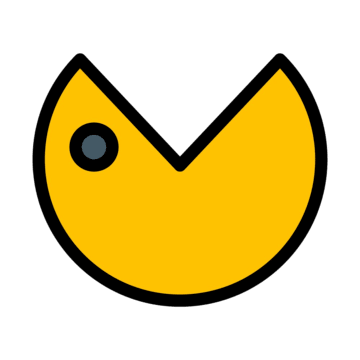
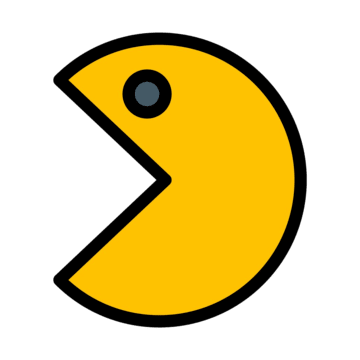
added move feature for Pac Man

diff --git a/src/App.jsx b/src/App.jsx
@@ -11,7 +11,6 @@ function App() {
 
   const [boardSize, setBoardSize] = useState([15, 17]);
   const [level, setLevel] = useState(1);
-
   const tileSize = 32;
 
   const boardStyle = {
@@ -56,7 +55,7 @@ function App() {
             tileSize,
             tileSize
           );
-        } else {
+        } else if (char === ".") {
           foods.add(new Block(null, x, y, tileSize, tileSize));
         }
       }
@@ -102,7 +101,63 @@ function App() {
     });
   }
 
+  function movePacMan(e, pacMan, imagesRef) {
+    if (e.code === "KeyW" || e.code === "ArrowUp") {
+      pacMan.updateDirection("U", imagesRef.pacManUp);
+    } else if (e.code === "KeyS" || e.code === "ArrowDown") {
+      pacMan.updateDirection("D", imagesRef.pacManDown);
+    } else if (e.code === "KeyA" || e.code === "ArrowLeft") {
+      pacMan.updateDirection("L", imagesRef.pacManLeft);
+    } else if (e.code === "KeyD" || e.code === "ArrowRight") {
+      pacMan.updateDirection("R", imagesRef.pacManRight);
+    }
+  }
+
+  function checkCollision(a, b) {
+    return (
+      a.x < b.x + b.width &&
+      a.x + a.width > b.x &&
+      a.y + a.height > b.y &&
+      a.y < b.y + b.height
+    );
+  }
+
+  function move(pacMan, walls, ghosts, foods) {
+    pacMan.x += pacMan.velocityX;
+    pacMan.y += pacMan.velocityY;
+
+    if (pacMan.x < 0) pacMan.x = 0;
+    if (pacMan.x + pacMan.width > boardStyle.width)
+      pacMan.x = boardStyle.width - pacMan.width;
+    if (pacMan.y < 0) pacMan.y = 0;
+    if (pacMan.y + pacMan.height > boardStyle.height)
+      pacMan.y = boardStyle.height - pacMan.height;
+
+    for (let wall of walls.values()) {
+      if (checkCollision(pacMan, wall)) {
+        pacMan.x -= pacMan.velocityX;
+        pacMan.y -= pacMan.velocityY;
+        break;
+      }
+    }
+
+    for (let ghost of ghosts.values()) {
+      if (checkCollision(pacMan, ghost)) {
+        console.log("Game End");
+        break;
+      }
+    }
+
+    for (let food of foods.values()) {
+      if (checkCollision(pacMan, food)) {
+        console.log("remove the food from that position and update the canva");
+        break;
+      }
+    }
+  }
+
   function update(walls, foods, ghosts, pacMan, boardStyle) {
+    move(pacMan, walls, ghosts, foods);
     draw(walls, foods, ghosts, pacMan, boardStyle);
 
     loopRef.current = setTimeout(
@@ -114,27 +169,38 @@ function App() {
   useEffect(() => {
     let mounted = true;
 
+    function handleKeyboard(e) {
+      if (!pacMan.current) return;
+      movePacMan(e, pacMan.current, imagesRef.current);
+    }
+
     async function init() {
-      imagesRef.current = await loadAllImages();
-      if (!mounted) return;
+      try {
+        imagesRef.current = await loadAllImages();
+        if (!mounted) return;
 
-      loadMap(
-        walls.current,
-        foods.current,
-        ghosts.current,
-        pacMan,
-        boardSize,
-        tileSize,
-        imagesRef.current
-      );
+        loadMap(
+          walls.current,
+          foods.current,
+          ghosts.current,
+          pacMan,
+          boardSize,
+          tileSize,
+          imagesRef.current
+        );
 
-      update(
-        walls.current,
-        foods.current,
-        ghosts.current,
-        pacMan.current,
-        boardStyle
-      );
+        update(
+          walls.current,
+          foods.current,
+          ghosts.current,
+          pacMan.current,
+          boardStyle
+        );
+
+        window.addEventListener("keydown", handleKeyboard);
+      } catch (err) {
+        console.error("Failed to load images:", err);
+      }
     }
 
     init();
@@ -142,10 +208,14 @@ function App() {
     return () => {
       mounted = false;
       clearTimeout(loopRef.current);
+      window.removeEventListener("keydown", handleKeyboard);
     };
   }, [level]);
 
-  const handleLevelClear = () => {
+  // useEffect(() => {
+  // }, []);
+
+  const handleNextLevel = () => {
     setLevel((l) => l + 1);
     setBoardSize(([r, c]) => [r + 2, c + 2]);
   };
@@ -158,7 +228,7 @@ function App() {
         height={boardStyle.height}
         className="bg-black mt-6"
       />
-      <button onClick={handleLevelClear} className="bg-pink-300 px-4 py-2 mt-4">
+      <button onClick={handleNextLevel} className="bg-pink-300 px-4 py-2 mt-4">
         Next Level
       </button>
     </div>

diff --git a/src/controllers/generateTileMap.js b/src/controllers/generateTileMap.js
@@ -3,6 +3,7 @@ export function generateTileMap(boardDimensions, minGhostDistance = 3) {
 
   const WALL = "x";
   const FOOD = ".";
+  const EMPTY = " ";
   const PACMAN = "1";
   const GHOSTS = ["p", "b", "y"];
 
@@ -11,6 +12,63 @@ export function generateTileMap(boardDimensions, minGhostDistance = 3) {
   );
 
   const inBounds = (r, c) => r >= 0 && r < rows && c >= 0 && c < cols;
+
+  const directions = [
+    [1, 0],
+    [-1, 0],
+    [0, 1],
+    [0, -1],
+  ];
+
+  /* ---------------- Flood fill to find accessible tiles ---------------- */
+
+  const floodFill = (sr, sc) => {
+    const visited = Array.from({ length: rows }, () => Array(cols).fill(false));
+
+    const queue = [[sr, sc]];
+    visited[sr][sc] = true;
+
+    while (queue.length) {
+      const [r, c] = queue.shift();
+
+      for (const [dr, dc] of directions) {
+        const nr = r + dr;
+        const nc = c + dc;
+
+        if (inBounds(nr, nc) && !visited[nr][nc] && board[nr][nc] !== WALL) {
+          visited[nr][nc] = true;
+          queue.push([nr, nc]);
+        }
+      }
+    }
+
+    return visited;
+  };
+
+  /* ---------------- Pick a random walkable seed ---------------- */
+
+  let seed = null;
+  for (let r = 0; r < rows && !seed; r++) {
+    for (let c = 0; c < cols && !seed; c++) {
+      if (board[r][c] !== WALL) seed = [r, c];
+    }
+  }
+
+  if (!seed) return board.map((row) => row.join(""));
+
+  const reachable = floodFill(seed[0], seed[1]);
+
+  /* ---------------- Remove inaccessible food ---------------- */
+
+  for (let r = 0; r < rows; r++) {
+    for (let c = 0; c < cols; c++) {
+      if (board[r][c] === FOOD && !reachable[r][c]) {
+        board[r][c] = EMPTY;
+      }
+    }
+  }
+
+  /* ---------------- Place ghosts (reachable only) ---------------- */
 
   const ghostPositions = [];
 
@@ -21,7 +79,7 @@ export function generateTileMap(boardDimensions, minGhostDistance = 3) {
       const r = Math.floor(Math.random() * rows);
       const c = Math.floor(Math.random() * cols);
 
-      if (board[r][c] === FOOD) {
+      if (reachable[r][c] && (board[r][c] === FOOD || board[r][c] === EMPTY)) {
         board[r][c] = ghost;
         ghostPositions.push([r, c]);
         placed = true;
@@ -29,34 +87,21 @@ export function generateTileMap(boardDimensions, minGhostDistance = 3) {
     }
   }
 
+  /* ---------------- Pac-Man spawn logic ---------------- */
+
   const farFromGhosts = (r, c) =>
     ghostPositions.every(
       ([gr, gc]) => Math.abs(gr - r) + Math.abs(gc - c) >= minGhostDistance
     );
-
-  const notBoxedByWalls = (r, c) => {
-    const directions = [
-      [1, 0],
-      [-1, 0],
-      [0, 1],
-      [0, -1],
-    ];
-
-    return directions.some(([dr, dc]) => {
-      const nr = r + dr;
-      const nc = c + dc;
-      return inBounds(nr, nc) && board[nr][nc] !== WALL;
-    });
-  };
 
   const validSpawns = [];
 
   for (let r = 0; r < rows; r++) {
     for (let c = 0; c < cols; c++) {
       if (
-        board[r][c] === FOOD &&
-        farFromGhosts(r, c) &&
-        notBoxedByWalls(r, c)
+        reachable[r][c] &&
+        (board[r][c] === FOOD || board[r][c] === EMPTY) &&
+        farFromGhosts(r, c)
       ) {
         validSpawns.push([r, c]);
       }
@@ -66,7 +111,7 @@ export function generateTileMap(boardDimensions, minGhostDistance = 3) {
   const [pr, pc] =
     validSpawns.length > 0
       ? validSpawns[Math.floor(Math.random() * validSpawns.length)]
-      : [0, 0];
+      : seed;
 
   board[pr][pc] = PACMAN;
 

diff --git a/src/controllers/blockClass.js b/src/controllers/blockClass.js
@@ -5,14 +5,40 @@ class Block {
     this.y = y;
     this.width = width;
     this.height = height;
-
+    this.tileSize = width;
     this.stsrtX = x;
     this.startY = y;
+
+    this.direction = "R";
+    this.velocityX = 0;
+    this.velocityY = 0;
   }
 
   draw(ctx) {
     if (!this.image) return;
     ctx.drawImage(this.image, this.x, this.y, this.width, this.height);
+  }
+
+  updateDirection(direction, image) {
+    this.direction = direction;
+    if (image) this.image = image;
+    this.updateVelocity();
+  }
+
+  updateVelocity(tileSize = this.tileSize) {
+    if (this.direction === "U") {
+      this.velocityX = 0;
+      this.velocityY = -tileSize / 4;
+    } else if (this.direction === "D") {
+      this.velocityX = 0;
+      this.velocityY = tileSize / 4;
+    } else if (this.direction === "L") {
+      this.velocityX = -tileSize / 4;
+      this.velocityY = 0;
+    } else if (this.direction === "R") {
+      this.velocityX = tileSize / 4;
+      this.velocityY = 0;
+    }
   }
 }
 

diff --git a/src/controllers/loadImage.js b/src/controllers/loadImage.js
@@ -14,7 +14,7 @@ export async function loadAllImages() {
     pacManDown: await loadImage("pacManDown"),
     pacManLeft: await loadImage("pacManLeft"),
     pacManRight: await loadImage("pacManRight"),
-    pacManwall: await loadImage("pacManWall"),
+    pacManWall: await loadImage("pacManWall"),
     ghostBlue: await loadImage("ghostBlue"),
     ghostPink: await loadImage("ghostPink"),
     ghostYellow: await loadImage("ghostYellow"),
